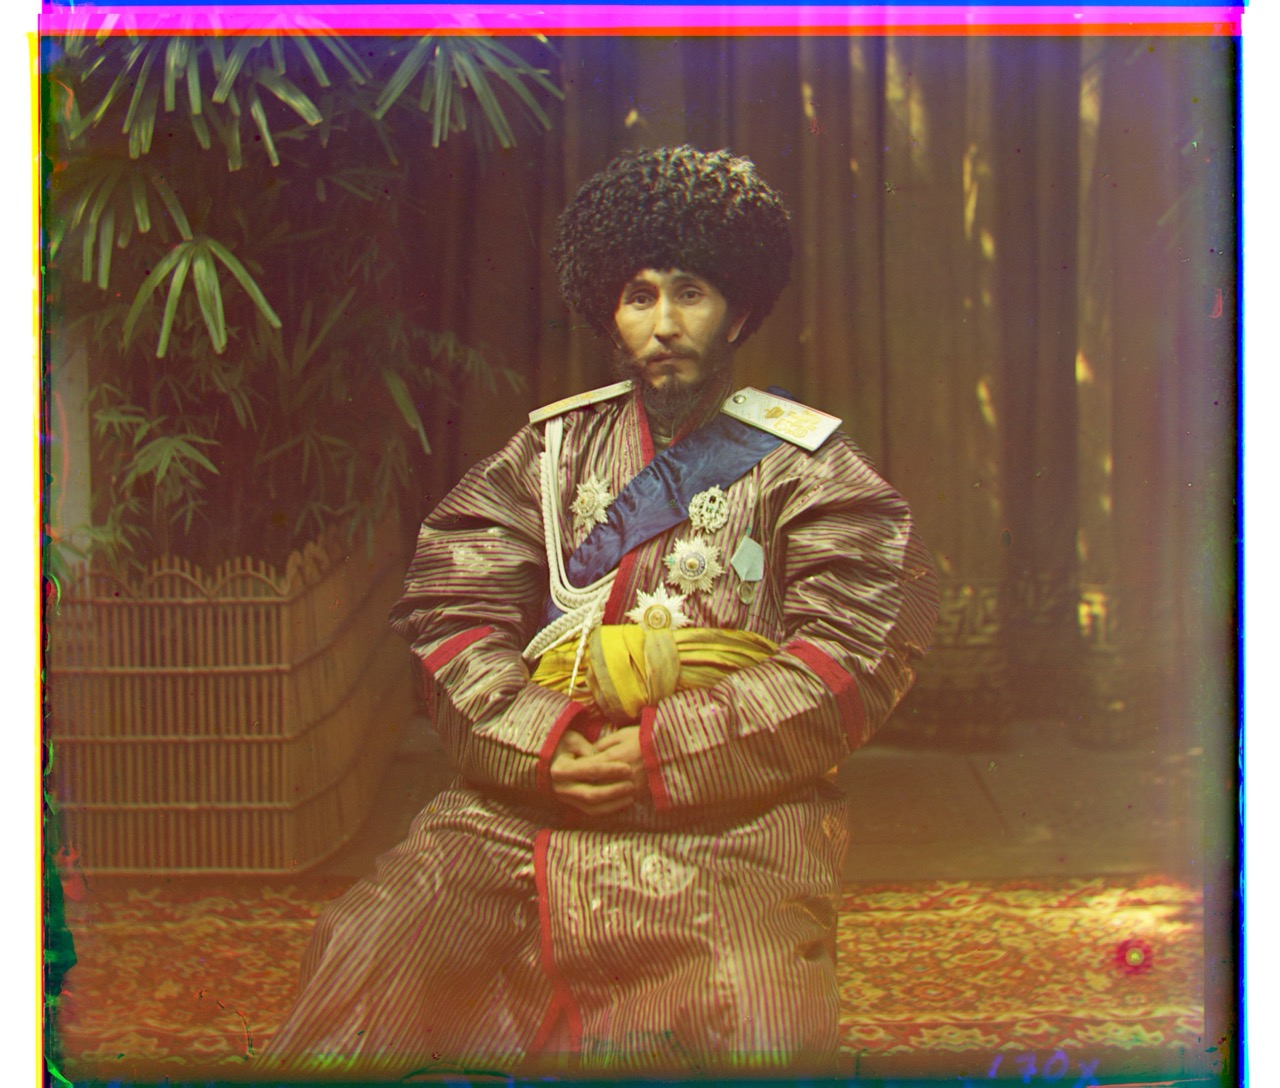
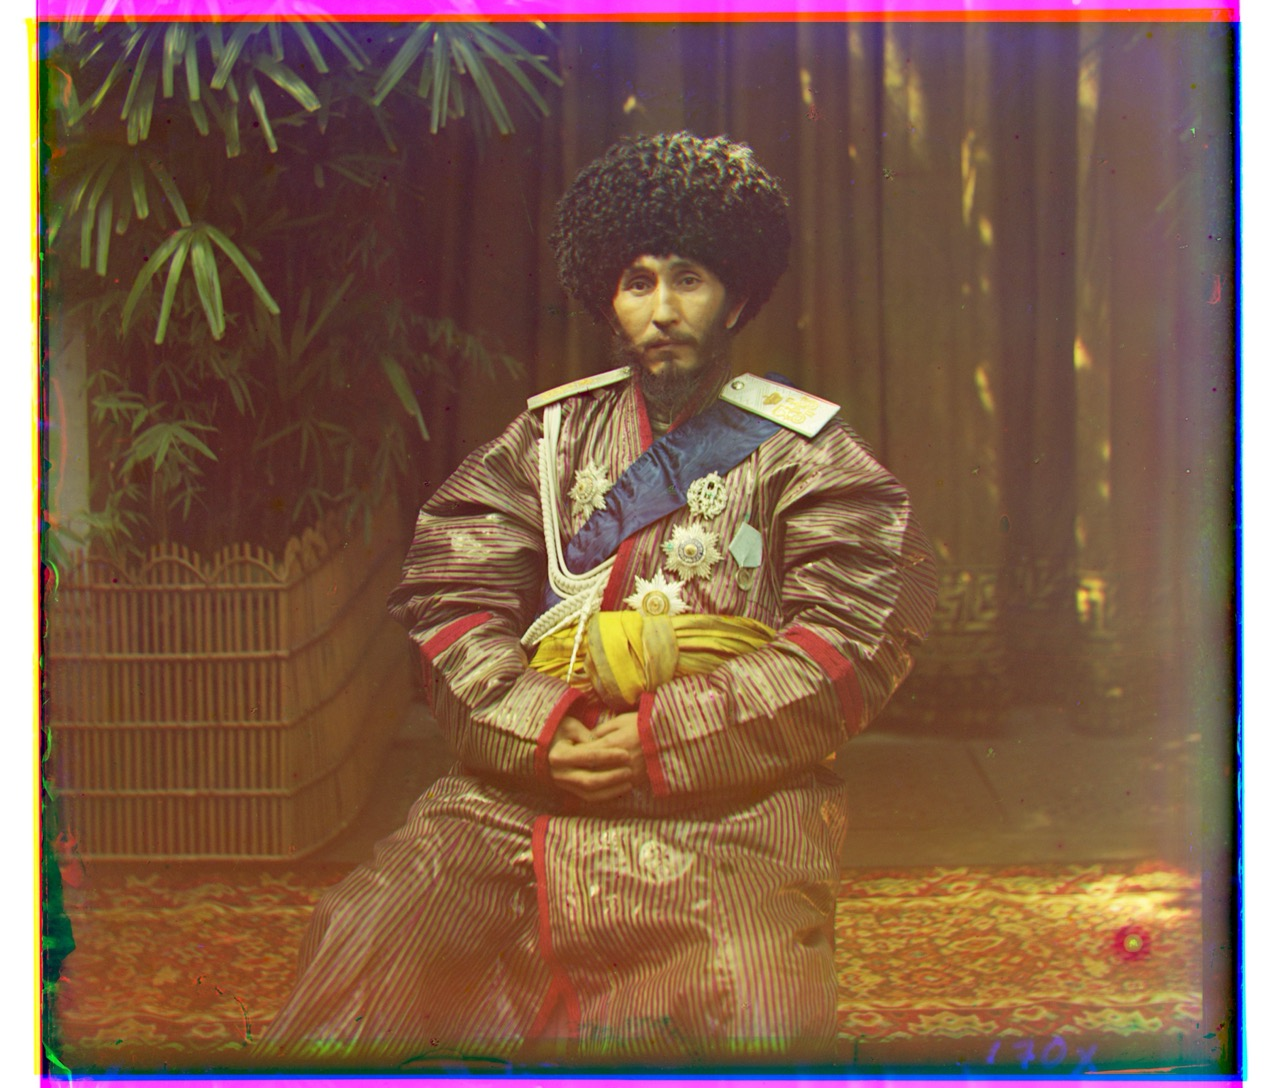
g channel alignment

diff --git a/proj1.html b/proj1.html
@@ -275,6 +275,13 @@
                     </a>
                 </div>
                 <div style="margin: 8px 0;">
+                    <a href="#bells" style="color: #808080; text-decoration: none; transition: color 0.2s ease;">
+                        <span style="color: #404040;">├── </span>
+                        <span style="color: #ffffff;">bells_and_whistles/</span>
+                        <span style="color: #606060; margin-left: 8px;">Sobel Edge Detection</span>
+                    </a>
+                </div>
+                <div style="margin: 8px 0;">
                     <a href="#summary" style="color: #808080; text-decoration: none; transition: color 0.2s ease;">
                         <span style="color: #404040;">└── </span>
                         <span style="color: #ffffff;">summary/</span>
@@ -292,7 +299,7 @@
             Sergei Mikhailovich Prokudin-Gorskii was a photographer who captured the Russian Empire in color 
             decades before color photography became widespread. His technique involved taking three separate 
             exposures through red, green, and blue filters on glass plates. This project implements an algorithm 
-            to automatically align these images using metrics such as Euclidian Distance or Normalized Cross-Correlation, 
+            to automatically align these images to the green channel using metrics such as Euclidian Distance or Normalized Cross-Correlation, 
             and then combine these three channel images into full-color photographs, displaying the vibrant images 
             that were taken nearly a century ago.
         </p>
@@ -338,17 +345,17 @@
             as 2 pixels. This will allow the first search to be more exhaustive, and there after, be shorter and more optimized. 
             After these results, we can see the Emir image nearly aligned, but not perfectly.
 
-            To completely align the image, I used an edge-detection algorithm (Sobel) on each BGR image, and then ran the alignment 
-            algorithm on these images. The results were then applied on all images, and the alignments worked great.
+            To completely align the image, I noticed that aligning to the G channel was more robust than aligning to the B channel. 
+            Thus, I switched my algorithm to align both B and R channels to the G channel as the reference, and after doing this, the images aligned nearly perfect.
         </p>
         <div class="comparison">
             <div class="comparison-item">
                 <img src="proj1/emir_wrong.png" alt="Emir with pixel-based alignment">
-                <div class="comparison-label">Pre-Sobel (main assignment)</div>
+                <div class="comparison-label">B channel alignment</div>
             </div>
             <div class="comparison-item">
                 <img src="proj1/emir.jpeg" alt="Emir with edge-based alignment">
-                <div class="comparison-label">Post-Sobel (bells and whistles)</div>
+                <div class="comparison-label">G channel alignment</div>
             </div>
         </div>
 
@@ -361,21 +368,21 @@
                     <img src="proj1/cathedral.jpeg" alt="Cathedral">
                 </div>
                 <div class="image-caption">Cathedral</div>
-                <div class="offset-info">G: (5, 2) | R: (12, 3)</div>
+                <div class="offset-info">B: (-5, -2) | R: (7, 1)</div>
             </div>
             <div class="image-wrapper">
                 <div class="image-container">
                     <img src="proj1/monastery.jpeg" alt="Monastery">
                 </div>
                 <div class="image-caption">Monastery</div>
-                <div class="offset-info">G: (-3, 2) | R: (3, 2)</div>
+                <div class="offset-info">B: (3, -2) | R: (6, 1)</div>
             </div>
             <div class="image-wrapper">
                 <div class="image-container">
                     <img src="proj1/tobolsk.jpeg" alt="Tobolsk">
                 </div>
                 <div class="image-caption">Tobolsk</div>
-                <div class="offset-info">G: (3, 3) | R: (6, 3)</div>
+                <div class="offset-info">B: (-3, -3) | R: (4, 1)</div>
             </div>
         </div>
 
@@ -386,77 +393,77 @@
                     <img src="proj1/emir.jpeg" alt="Emir">
                 </div>
                 <div class="image-caption">Emir of Bukhara</div>
-                <div class="offset-info">G: (49, 24) | R: (107, 40)</div>
+                <div class="offset-info">B: (-49, -24) | R: (57, 17)</div>
             </div>
             <div class="image-wrapper">
                 <div class="image-container">
                     <img src="proj1/church.jpeg" alt="Church">
                 </div>
                 <div class="image-caption">Church</div>
-                <div class="offset-info">G: (25, 4) | R: (58, -4)</div>
+                <div class="offset-info">B: (-25, -4) | R: (33, -8)</div>
             </div>
             <div class="image-wrapper">
                 <div class="image-container">
                     <img src="proj1/harvesters.jpeg" alt="Harvesters">
                 </div>
                 <div class="image-caption">Harvesters</div>
-                <div class="offset-info">G: (60, 17) | R: (124, 14)</div>
+                <div class="offset-info">B: (-59, -17) | R: (65, -3)</div>
             </div>
             <div class="image-wrapper">
                 <div class="image-container">
                     <img src="proj1/icon.jpeg" alt="Icon">
                 </div>
                 <div class="image-caption">Icon</div>
-                <div class="offset-info">G: (42, 17) | R: (90, 23)</div>
+                <div class="offset-info">B: (-41, -17) | R: (48, 5)</div>
             </div>
             <div class="image-wrapper">
                 <div class="image-container">
                     <img src="proj1/self_portrait.jpeg" alt="Self Portrait">
                 </div>
                 <div class="image-caption">Self Portrait</div>
-                <div class="offset-info">G: (78, 29) | R: (176, 37)</div>
+                <div class="offset-info">B: (-79, -29) | R: (98, 8)</div>
             </div>
             <div class="image-wrapper">
                 <div class="image-container">
                     <img src="proj1/three_generations.jpeg" alt="Three Generations">
                 </div>
                 <div class="image-caption">Three Generations</div>
-                <div class="offset-info">G: (53, 12) | R: (111, 9)</div>
+                <div class="offset-info">B: (-52, -14) | R: (59, -3)</div>
             </div>
             <div class="image-wrapper">
                 <div class="image-container">
                     <img src="proj1/melons.jpeg" alt="Melons">
                 </div>
                 <div class="image-caption">Melons</div>
-                <div class="offset-info">G: (80, 10) | R: (177, 13)</div>
+                <div class="offset-info">B: (-82, -11) | R: (96, 3)</div>
             </div>
             <div class="image-wrapper">
                 <div class="image-container">
-                    <img src="proj1/italil.jpeg" alt="Italian">
+                    <img src="proj1/italil.jpeg" alt="Italil">
                 </div>
-                <div class="image-caption">Italian</div>
-                <div class="offset-info">G: (38, 22) | R: (77, 36)</div>
+                <div class="image-caption">Italil</div>
+                <div class="offset-info">B: (-38, -21) | R: (39, 15)</div>
             </div>
             <div class="image-wrapper">
                 <div class="image-container">
                     <img src="proj1/lugano.jpeg" alt="Lugano">
                 </div>
                 <div class="image-caption">Lugano</div>
-                <div class="offset-info">G: (41, -17) | R: (92, -29)</div>
+                <div class="offset-info">B: (-41, 16) | R: (52, -13)</div>
             </div>
             <div class="image-wrapper">
                 <div class="image-container">
                     <img src="proj1/lastochikino.jpeg" alt="Lastochikino">
                 </div>
                 <div class="image-caption">Lastochikino</div>
-                <div class="offset-info">G: (-3, -2) | R: (76, -8)</div>
+                <div class="offset-info">B: (3, 2) | R: (78, -7)</div>
             </div>
             <div class="image-wrapper">
                 <div class="image-container">
                     <img src="proj1/siren.jpeg" alt="Siren">
                 </div>
                 <div class="image-caption">Siren</div>
-                <div class="offset-info">G: (49, -6) | R: (96, -24)</div>
+                <div class="offset-info">B: (-49, 6) | R: (47, -19)</div>
             </div>
         </div>
 
@@ -470,25 +477,34 @@
                     <img src="proj1/fav1.jpeg" alt="Favorite 1">
                 </div>
                 <div class="image-caption">Collection Image 1</div>
-                <div class="offset-info">G: (40, 5) | R: (105, 1)</div>
+                <div class="offset-info">B: (-41, -5) | R: (64, -4)</div>
             </div>
             <div class="image-wrapper">
                 <div class="image-container">
                     <img src="proj1/fav2.jpeg" alt="Favorite 2">
                 </div>
                 <div class="image-caption">Collection Image 2</div>
-                <div class="offset-info">G: (59, 27) | R: (126, 34)</div>
+                <div class="offset-info">B: (-60, -28) | R: (66, 6)</div>
             </div>
             <div class="image-wrapper">
                 <div class="image-container">
                     <img src="proj1/fav3.jpeg" alt="Favorite 3">
                 </div>
                 <div class="image-caption">Collection Image 3</div>
-                <div class="offset-info">G: (29, 2) | R: (119, -2)</div>
+                <div class="offset-info">B: (-29, -1) | R: (90, -4)</div>
             </div>
         </div>
 
 
+
+        <h2 id="bells">Bells and Whistles</h2>
+        <p>
+            I also implemented Sobel edge detection as an alternative alignment method. The Sobel operator detects edges in the images, 
+            which can be more robust for alignment when the color channels have very different brightness distributions. However, after 
+            switching to aligning both channels to the green channel (rather than blue), the improvements from Sobel edge detection were 
+            not as dramatic as expected. The G channel alignment alone provided sufficiently good results for most images, including the 
+            challenging Emir photograph.
+        </p>
 
         <h2 id="summary">Results Summary</h2>
         <table class="results-table">
@@ -496,7 +512,7 @@
                 <tr>
                     <th>Image</th>
                     <th>Resolution</th>
-                    <th>Green Offset (y, x)</th>
+                    <th>Blue Offset (y, x)</th>
                     <th>Red Offset (y, x)</th>
                 </tr>
             </thead>
@@ -504,104 +520,104 @@
                 <tr>
                     <td>Cathedral</td>
                     <td>Low</td>
-                    <td>(5, 2)</td>
-                    <td>(12, 3)</td>
+                    <td>(-5, -2)</td>
+                    <td>(7, 1)</td>
                 </tr>
                 <tr>
                     <td>Monastery</td>
                     <td>Low</td>
-                    <td>(-3, 2)</td>
-                    <td>(3, 2)</td>
+                    <td>(3, -2)</td>
+                    <td>(6, 1)</td>
                 </tr>
                 <tr>
                     <td>Tobolsk</td>
                     <td>Low</td>
-                    <td>(3, 3)</td>
-                    <td>(6, 3)</td>
+                    <td>(-3, -3)</td>
+                    <td>(4, 1)</td>
                 </tr>
                 <tr>
                     <td>Church</td>
                     <td>High</td>
-                    <td>(25, 4)</td>
-                    <td>(58, -4)</td>
+                    <td>(-25, -4)</td>
+                    <td>(33, -8)</td>
                 </tr>
                 <tr>
                     <td>Emir</td>
                     <td>High</td>
-                    <td>(49, 24)</td>
-                    <td>(107, 40)</td>
+                    <td>(-49, -24)</td>
+                    <td>(57, 17)</td>
                 </tr>
                 <tr>
                     <td>Harvesters</td>
                     <td>High</td>
-                    <td>(60, 17)</td>
-                    <td>(124, 14)</td>
+                    <td>(-59, -17)</td>
+                    <td>(65, -3)</td>
                 </tr>
                 <tr>
                     <td>Icon</td>
                     <td>High</td>
-                    <td>(42, 17)</td>
-                    <td>(90, 23)</td>
+                    <td>(-41, -17)</td>
+                    <td>(48, 5)</td>
                 </tr>
                 <tr>
-                    <td>Italian</td>
+                    <td>Italil</td>
                     <td>High</td>
-                    <td>(38, 22)</td>
-                    <td>(77, 36)</td>
+                    <td>(-38, -21)</td>
+                    <td>(39, 15)</td>
                 </tr>
                 <tr>
                     <td>Lastochikino</td>
                     <td>High</td>
-                    <td>(-3, -2)</td>
-                    <td>(76, -8)</td>
+                    <td>(3, 2)</td>
+                    <td>(78, -7)</td>
                 </tr>
                 <tr>
                     <td>Lugano</td>
                     <td>High</td>
-                    <td>(41, -17)</td>
-                    <td>(92, -29)</td>
+                    <td>(-41, 16)</td>
+                    <td>(52, -13)</td>
                 </tr>
                 <tr>
                     <td>Melons</td>
                     <td>High</td>
-                    <td>(80, 10)</td>
-                    <td>(177, 13)</td>
+                    <td>(-82, -11)</td>
+                    <td>(96, 3)</td>
                 </tr>
                 <tr>
                     <td>Self Portrait</td>
                     <td>High</td>
-                    <td>(78, 29)</td>
-                    <td>(176, 37)</td>
+                    <td>(-79, -29)</td>
+                    <td>(98, 8)</td>
                 </tr>
                 <tr>
                     <td>Siren</td>
                     <td>High</td>
-                    <td>(49, -6)</td>
-                    <td>(96, -24)</td>
+                    <td>(-49, 6)</td>
+                    <td>(47, -19)</td>
                 </tr>
                 <tr>
                     <td>Three Generations</td>
                     <td>High</td>
-                    <td>(54, 12)</td>
-                    <td>(111, 9)</td>
+                    <td>(-52, -14)</td>
+                    <td>(59, -3)</td>
                 </tr>
                 <tr>
                     <td>Collection Image 1</td>
                     <td>High</td>
-                    <td>(40, 5)</td>
-                    <td>(105, 1)</td>
+                    <td>(-41, -5)</td>
+                    <td>(64, -4)</td>
                 </tr>
                 <tr>
                     <td>Collection Image 2</td>
                     <td>High</td>
-                    <td>(59, 28)</td>
-                    <td>(126, 34)</td>
+                    <td>(-60, -28)</td>
+                    <td>(66, 6)</td>
                 </tr>
                 <tr>
                     <td>Collection Image 3</td>
                     <td>High</td>
-                    <td>(29, 2)</td>
-                    <td>(119, -2)</td>
+                    <td>(-29, -1)</td>
+                    <td>(90, -4)</td>
                 </tr>
             </tbody>
         </table>
